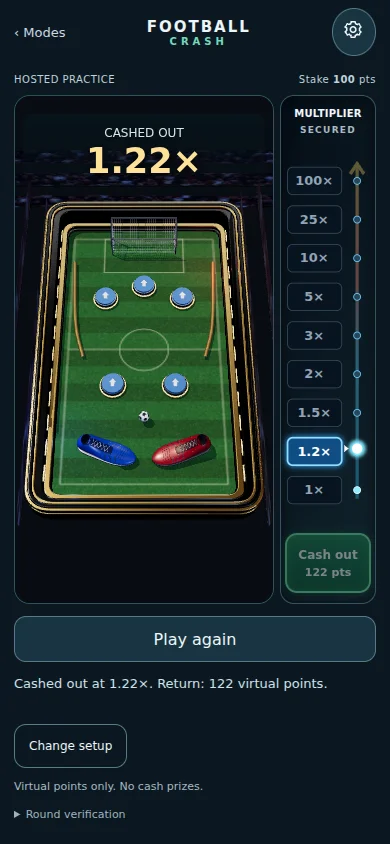
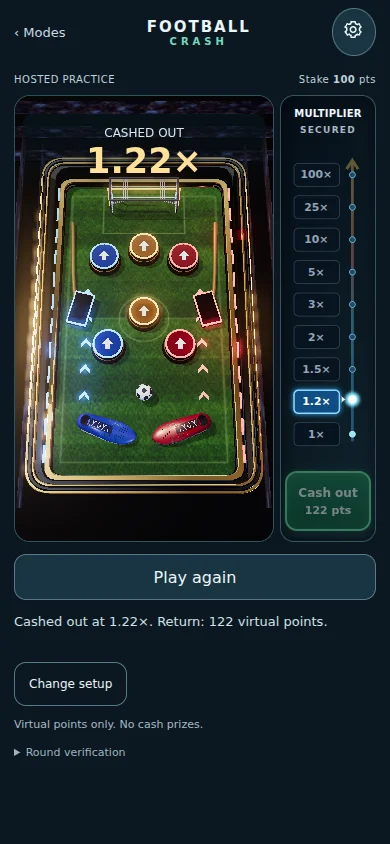
Polish Crash turf, targets, lighting and board framing

diff --git a/src/football-pinball/view/crash-scene.js b/src/football-pinball/view/crash-scene.js
@@ -1,4 +1,8 @@
 import * as THREE from 'three';
+import { EffectComposer } from 'three/addons/postprocessing/EffectComposer.js';
+import { RenderPass } from 'three/addons/postprocessing/RenderPass.js';
+import { UnrealBloomPass } from 'three/addons/postprocessing/UnrealBloomPass.js';
+import { OutputPass } from 'three/addons/postprocessing/OutputPass.js';
 import { GLTFLoader } from 'three/addons/loaders/GLTFLoader.js';
 import { mergeGeometries } from 'three/addons/utils/BufferGeometryUtils.js';
 import { createFootballVisualKit } from './visual-kit.js';
@@ -9,29 +13,36 @@ import { addCrowdTiers } from './stadium-kit.js';
 export async function createCrashView(container) {
   const renderer = new THREE.WebGLRenderer({antialias:true, preserveDrawingBuffer:import.meta.env.DEV});
   renderer.setPixelRatio(Math.min(devicePixelRatio,1.5));
-  renderer.toneMapping=THREE.ACESFilmicToneMapping; renderer.toneMappingExposure=.95;
+  renderer.toneMapping=THREE.ACESFilmicToneMapping; renderer.toneMappingExposure=1.05;
   renderer.shadowMap.enabled=true; renderer.shadowMap.type=THREE.PCFSoftShadowMap;
   container.append(renderer.domElement);
   const scene=new THREE.Scene(); scene.background=new THREE.Color('#080d12');
   const camera=new THREE.PerspectiveCamera(42,1,.1,70);
   const kit=createFootballVisualKit(scene,renderer);
+  const composer=new EffectComposer(renderer);composer.addPass(new RenderPass(scene,camera));
+  const bloom=new UnrealBloomPass(new THREE.Vector2(256,512),.38,.5,1.05);composer.addPass(bloom);composer.addPass(new OutputPass());
   const board=new THREE.Group(); scene.add(board);
   const gold=kit.metal.clone(); gold.color.set('#b99750');gold.roughness=.27;
   addFootballCabinet(board,{metal:gold,black:kit.black});
   const amber=new THREE.MeshStandardMaterial({color:'#ffd471',emissive:'#ff9f28',emissiveIntensity:1.7,roughness:.28});
   const textures=[]; const failures=[]; const rings=[]; let disposed=false,latest={state:'ready',multiplier:1};
   function mesh(geometry,material,x,y,z){const m=new THREE.Mesh(geometry,material);m.position.set(x,y,z);m.castShadow=true;m.receiveShadow=true;board.add(m);return m;}
-  for(const side of [-1,1])for(let n=0;n<12;n++)mesh(new THREE.BoxGeometry(.055,.04,.55),amber,side*3.24,.48,-4.85+n*.88);
+  const blue=amber.clone();blue.color.set('#55bdff');blue.emissive.set('#0088ff');
+  const red=amber.clone();red.color.set('#ff7772');red.emissive.set('#ff1230');
+  for(const side of [-1,1])for(let n=0;n<12;n++)mesh(new THREE.BoxGeometry(.08,.06,.55),side<0?blue:red,side*3.24,.48,-4.85+n*.88);
+  for(const side of [-1,1]){const light=new THREE.PointLight(side<0?'#168fff':'#ff283f',8,7,2);light.position.set(side*2.6,1.3,1);scene.add(light);}
+
   // Deterministic turf texture: the same palette/material language as the PvP kit.
   const canvas=document.createElement('canvas');canvas.width=512;canvas.height=1024;
   const ctx=canvas.getContext('2d');let seed=701;
   const rand=()=>((seed=(Math.imul(seed,1664525)+1013904223)>>>0)/4294967296);
   for(let n=0;n<16;n++){ctx.fillStyle=n%2?'#285b24':'#234c1c';ctx.fillRect(0,n*64,512,64);}
   for(let n=0;n<65000;n++){ctx.fillStyle=rand()>.5?'rgba(162,186,80,.15)':'rgba(0,12,0,.17)';ctx.fillRect(rand()*512,rand()*1024,1,3);}
-  ctx.strokeStyle='rgba(228,238,201,.55)';ctx.lineWidth=2;ctx.strokeRect(24,44,464,936);
+  try{const img=await new Promise((resolve,reject)=>{const i=new Image();i.onload=()=>resolve(i);i.onerror=reject;i.src='/football-pinball/art/turf-detail.webp';});ctx.drawImage(img,0,0,512,1024);for(let n=0;n<16;n++){if(n%2){ctx.fillStyle='rgba(0,24,6,.14)';ctx.fillRect(0,n*64,512,64);}}}catch{failures.push('turf-detail');}
+  ctx.strokeStyle='rgba(228,238,201,.7)';ctx.lineWidth=2;ctx.strokeRect(24,44,464,936);
   ctx.beginPath();ctx.moveTo(24,512);ctx.lineTo(488,512);ctx.ellipse(256,512,75,80,0,0,Math.PI*2);ctx.stroke();ctx.strokeRect(125,44,262,150);
   const turf=new THREE.CanvasTexture(canvas);turf.colorSpace=THREE.SRGBColorSpace;textures.push(turf);
-  mesh(new THREE.PlaneGeometry(6.1,11.05),new THREE.MeshStandardMaterial({map:turf,bumpMap:kit.cloth,bumpScale:.012,roughness:.96}),0,0,0).rotation.x=-Math.PI/2;
+  mesh(new THREE.PlaneGeometry(6.1,11.05),new THREE.MeshStandardMaterial({map:turf,color:'#8ba273',bumpMap:kit.cloth,bumpScale:.012,roughness:.96}),0,0,0).rotation.x=-Math.PI/2;
   try {const crowd=await new THREE.TextureLoader().loadAsync('/football-pinball/art/stadium-crowd.png');crowd.colorSpace=THREE.SRGBColorSpace;textures.push(crowd);addCrowdTiers(scene,crowd,kit.black,{tiers:3,near:6.5});}catch{failures.push('stadium-crowd');}
   function batchStatic(root){
     root.updateMatrixWorld(true);const groups=new Map();
@@ -39,7 +50,7 @@ export async function createCrashView(container) {
     const batched=new THREE.Group();for(const [material,parts] of groups){const geometry=mergeGeometries(parts,false);if(!geometry)throw Error('Asset batching failed');batched.add(new THREE.Mesh(geometry,material));parts.forEach(g=>g.dispose());}root.traverse(o=>o.geometry?.dispose());return batched;
   }
   const loader=new GLTFLoader();const models=new Map();
-  await Promise.all(['boot-reference','football','goal','round-target'].map(async name=>{
+  await Promise.all(['boot-reference','football','goal'].map(async name=>{
     try{const g=await loader.loadAsync(`/models/football/${name}.glb`);const remove=[];g.scene.traverse(o=>{if(o.isLight||o.isCamera)remove.push(o);});remove.forEach(o=>o.removeFromParent());models.set(name,name==='boot-reference'?batchStatic(g.scene):g.scene);}catch{failures.push(name);}
   }));
   function model(name,x,y,z,width,team='blue'){
@@ -50,24 +61,40 @@ export async function createCrashView(container) {
     const holder=new THREE.Group();const scale=width/Math.max(size.x,.001);root.scale.setScalar(scale);root.position.set(-center.x*scale,-bounds.min.y*scale,-center.z*scale);holder.add(root);holder.position.set(x,y,z);board.add(holder);return holder;
   }
   model('goal',0,.02,-4.65,2.65,'red');
-  const positions=[[-1.45,-2.15],[0,-2.7],[1.45,-2.15],[-1.1,1.5],[1.1,1.5]];
+  mesh(new THREE.BoxGeometry(2.7,.045,.055),amber,0,1.15,-4.65);
+  for(const side of [-1,1])mesh(new THREE.BoxGeometry(.055,1.15,.055),amber,side*1.32,.58,-4.65);
+
+  const positions=[[-1.45,-2.25],[0,-2.65],[1.45,-2.25],[-1.25,1.1],[1.25,1.1],[0,-.1]];
   for(const [x,z] of positions){
-    model('round-target',x,.025,z,.85);
-    const ring=mesh(new THREE.TorusGeometry(.44,.035,8,40),amber,x,.1,z);ring.rotation.x=-Math.PI/2;rings.push(ring);
+    const colour=x<0?blue:x>0?red:amber;
+    mesh(new THREE.CylinderGeometry(.55,.61,.22,40),gold,x,.14,z);
+    mesh(new THREE.CylinderGeometry(.48,.52,.2,40),kit.black,x,.34,z);
+    const face=new THREE.MeshPhysicalMaterial({color:x<0?'#073e94':x>0?'#8b101e':'#8a5710',metalness:.55,roughness:.24,clearcoat:1});
+    mesh(new THREE.CylinderGeometry(.45,.45,.08,40),face,x,.48,z);
+    const icon=new THREE.Shape();icon.moveTo(0,-.2);icon.lineTo(.2,.02);icon.lineTo(.08,.02);icon.lineTo(.08,.2);icon.lineTo(-.08,.2);icon.lineTo(-.08,.02);icon.lineTo(-.2,.02);icon.closePath();
+    const symbol=mesh(new THREE.ShapeGeometry(icon),new THREE.MeshBasicMaterial({color:'#ffffff',side:THREE.DoubleSide}),x,.527,z);symbol.rotation.x=Math.PI/2;
+    const ring=mesh(new THREE.TorusGeometry(.49,.04,8,40),colour,x,.5,z);ring.rotation.x=-Math.PI/2;rings.push(ring);
     kit.contact(board,1.1,1.1,x,.012,z);
   }
   for(const side of [-1,1]){
     const curve=new THREE.CatmullRomCurve3([[side*2.7,.15,-3.8],[side*2.5,.15,-.8],[side*2.2,.15,.4]].map(p=>new THREE.Vector3(...p)));
     mesh(new THREE.TubeGeometry(curve,24,.07,8,false),gold,0,0,0);
+    for(let n=0;n<5;n++){
+      const shape=new THREE.Shape();shape.moveTo(-.17,.05);shape.lineTo(0,.26);shape.lineTo(.17,.05);shape.lineTo(.17,-.08);shape.lineTo(0,.1);shape.lineTo(-.17,-.08);shape.closePath();
+      const arrow=mesh(new THREE.ShapeGeometry(shape),side<0?blue:red,side*2.05,.012,2.9-n*.95);arrow.rotation.x=-Math.PI/2;
+    }
+    const wing=mesh(new THREE.BoxGeometry(.7,.2,1.2),kit.black,side*2.25,.24,-.25);wing.rotation.y=side*.25;
+    const rim=mesh(new THREE.BoxGeometry(.74,.035,1.24),side<0?blue:red,side*2.25,.36,-.25);rim.rotation.y=side*.25;
+    const face=mesh(new THREE.BoxGeometry(.62,.035,1.1),kit.black,side*2.25,.385,-.25);face.rotation.y=side*.25;
     const boot=model('boot-reference',side*1.25,.08,4,2.05,side<0?'blue':'red');
     if(boot)boot.rotation.y=side<0?-.3:Math.PI+.3;
   }
-  const ball=model('football',0,.2,2.8,.36)||mesh(new THREE.SphereGeometry(.18,20,16),new THREE.MeshStandardMaterial({color:'white',roughness:.4}),0,.2,2.8);
+  const ball=model('football',0,.2,2.8,.55)||mesh(new THREE.SphereGeometry(.18,20,16),new THREE.MeshStandardMaterial({color:'white',roughness:.4}),0,.2,2.8);
   const corners=[];for(const x of [-3.85,3.85])for(const z of [-6.1,6.1])for(const y of [0,1.1])corners.push(new THREE.Vector3(x,y,z));
   function resize(){
-    if(disposed)return;const w=Math.max(1,container.clientWidth),h=Math.max(1,container.clientHeight);renderer.setSize(w,h,false);camera.aspect=w/h;camera.updateProjectionMatrix();
-    const fits=d=>{camera.position.set(0,d,d*.55);camera.lookAt(0,0,0);camera.updateMatrixWorld();return corners.every(p=>{const q=p.clone().project(camera);return Math.abs(q.x)<.975&&Math.abs(q.y)<.975;});};
-    let lo=5,hi=40;for(let n=0;n<22;n++){const mid=(lo+hi)/2;if(fits(mid))hi=mid;else lo=mid;}fits(hi);renderer.render(scene,camera);
+    if(disposed)return;const w=Math.max(1,container.clientWidth),h=Math.max(1,container.clientHeight);renderer.setSize(w,h,false);composer.setSize(w,h);camera.aspect=w/h;camera.updateProjectionMatrix();
+    const fits=d=>{camera.position.set(0,d,d*.36);camera.lookAt(0,0,0);camera.updateMatrixWorld();return corners.every(p=>{const q=p.clone().project(camera);return Math.abs(q.x)<.975&&Math.abs(q.y)<.975;});};
+    let lo=5,hi=40;for(let n=0;n<22;n++){const mid=(lo+hi)/2;if(fits(mid))hi=mid;else lo=mid;}fits(hi);composer.render();
   }
   const observer=new ResizeObserver(resize);observer.observe(container);resize();
   let motion=0,lastTime=performance.now();
@@ -76,10 +103,10 @@ export async function createCrashView(container) {
     const active=['active','running','rising'].includes(snapshot.state);
     if(active&&!snapshot.paused&&!matchMedia('(prefers-reduced-motion: reduce)').matches){motion+=dt;ball.position.set(Math.sin(motion*2.1)*1.8,.16,Math.cos(motion*1.3)*3.1);ball.rotation.x+=dt*4;ball.rotation.z+=dt*2;}
     amber.emissiveIntensity=snapshot.state==='crashed'?.2:active?1.5+Math.sin(motion*4)*.2:1;
-    renderer.render(scene,camera);
+    composer.render();
   }
-  return {update,setQuality(value){renderer.setPixelRatio(value==='low'?1:Math.min(devicePixelRatio,1.5));renderer.shadowMap.enabled=value!=='low';kit.setReduced(value==='low');resize();},
+  return {update,setQuality(value){renderer.setPixelRatio(value==='low'?1:Math.min(devicePixelRatio,1.5));renderer.shadowMap.enabled=value!=='low';kit.setReduced(value==='low');bloom.enabled=value!=='low';resize();},
     metrics(){return {failedAssets:[...failures],canvas:{width:container.clientWidth,height:container.clientHeight},state:latest.state,cosmetic:true};},
-    dispose(){if(disposed)return;disposed=true;observer.disconnect();const geometry=new Set(),materials=new Set();for(const root of [scene,...models.values()])root.traverse(o=>{if(o.geometry)geometry.add(o.geometry);for(const m of o.material?(Array.isArray(o.material)?o.material:[o.material]):[])materials.add(m);});geometry.forEach(g=>g.dispose());materials.forEach(m=>m.dispose());textures.forEach(t=>t.dispose());kit.dispose();renderer.dispose();renderer.domElement.remove();}
+    dispose(){if(disposed)return;disposed=true;observer.disconnect();const geometry=new Set(),materials=new Set();for(const root of [scene,...models.values()])root.traverse(o=>{if(o.geometry)geometry.add(o.geometry);for(const m of o.material?(Array.isArray(o.material)?o.material:[o.material]):[])materials.add(m);});geometry.forEach(g=>g.dispose());materials.forEach(m=>m.dispose());textures.forEach(t=>t.dispose());kit.dispose();composer.dispose();bloom.dispose();renderer.dispose();renderer.domElement.remove();}
   };
 }

diff --git a/src/football-pinball/ui/crash.css b/src/football-pinball/ui/crash.css
@@ -2,7 +2,7 @@
 .fp-crash [hidden]{display:none!important}.fp-crash button,.fp-crash input,.fp-crash select{font:inherit}.fp-crash button{min-height:46px;border:1px solid #557a87;border-radius:12px;background:#193441;color:#edf6f8;padding:10px 14px;cursor:pointer}.fp-crash button:disabled{opacity:.45;cursor:default}.fp-crash button:focus-visible,.fp-crash a:focus-visible,.fp-crash input:focus-visible,.fp-crash select:focus-visible{outline:3px solid #efd68f;outline-offset:3px}
 #footballApp.fp-crash .fc-header{display:flex;align-items:center;gap:10px;height:64px;justify-content:space-between}#footballApp.fp-crash h1{font-size:15px;letter-spacing:2px;text-align:center}#footballApp.fp-crash h1 span{display:block;font-size:10px;color:#72dbb9;letter-spacing:4px}.fc-header a{color:#bbd0d9;text-decoration:none;font-size:13px}.fp-crash .fc-menu{border-radius:50%;width:44px;min-height:44px;padding:10px}.fc-menu svg{width:22px;height:22px}
 .fc-setup{max-width:480px;margin:20px auto}.fc-kicker{color:#77d6b8;font-size:11px;letter-spacing:2px}.fc-setup h2{font-size:30px;line-height:1.15;margin:10px 0 20px}.fc-setup p{color:#b5c9d2;font-size:14px;line-height:1.55}.fc-preview{position:relative;border:1px solid #345963;background:radial-gradient(ellipse at bottom right,#164138,#0b1e29);border-radius:18px;padding:14px}.fc-preview svg{width:100%;height:130px}.fc-preview strong{position:absolute;left:36px;top:25px;font-size:26px;color:#e9d58f}.fc-setup label{display:grid;gap:8px;font-size:13px;margin-top:22px}.fc-setup input,.fc-setup select{width:100%;min-width:0;min-height:48px;border:1px solid #456878;border-radius:10px;background:#172c38;color:#fff;padding:10px;color-scheme:dark}.fp-crash .fc-small{font-size:11px;line-height:1.45;color:#a6bac4}.fc-setup-actions{display:grid;grid-template-columns:1fr 1.4fr;gap:10px;margin-top:24px}.fc-setup-actions .fp-actions{display:block}.fc-setup-actions button{width:100%;height:100%}.fp-crash #fc-enter,.fp-crash #fc-cashout{background:#d8bd78;color:#0b2028;font-weight:750;border-color:#f2d891}
-.fc-round-header{display:flex;justify-content:space-between;gap:8px;align-items:center;font-size:10px;letter-spacing:.5px;padding:10px 0;color:#bfd3dc}.fc-game{display:grid;grid-template-columns:minmax(0,1fr) 96px;gap:6px;height:clamp(340px,calc((100vw - 130px)*1.65 + 80px),650px);min-height:340px}.fc-game #fc-arena{position:relative;min-width:0;overflow:hidden;border:1px solid #2e5362;border-radius:16px;background:#0b202a}#fc-arena canvas{display:block;width:100%;height:100%}.fc-live{position:absolute;top:18px;left:8px;right:8px;z-index:2;text-align:center;pointer-events:none;text-shadow:0 2px 12px #000;background:linear-gradient(#06151dcc,#06151d00);border-radius:10px;padding:12px 4px}.fc-live>span{display:block;font-size:12px;color:#d3e7e9}.fc-live strong{font-size:clamp(30px,9vw,55px);color:#72edbd;font-variant-numeric:tabular-nums}.fc-live #fc-countdown{font-size:24px;color:#efd68f}.fc-ladder{display:flex;flex-direction:column;justify-content:space-around;border:1px solid #365261;border-radius:14px;background:#102630;padding:8px 4px}.fc-ladder span{font-size:12px;font-weight:700;text-align:center;color:#758f9b;border-radius:8px;padding:10px 0;transition:background 140ms,color 140ms}.fc-ladder .fc-reached{background:#194e43;color:#85f2c9}.fc-round-actions{display:grid;grid-template-columns:1fr;gap:8px;margin-top:12px}.fc-ladder #fc-cashout{display:flex;flex-direction:column;align-items:center;justify-content:center;gap:4px;min-height:60px;padding:10px 3px;width:100%;font-size:12px;flex:none}.fc-ladder #fc-return{font-size:11px;font-variant-numeric:tabular-nums;overflow-wrap:anywhere}.fc-round-actions strong{font-variant-numeric:tabular-nums}.fp-crash #fc-message{font-size:13px;line-height:1.4;min-height:36px;color:#d0e1e8}.fp-crash .fc-text-button{font-size:12px;min-height:44px;background:transparent}.fp-crash dialog{max-width:min(360px,calc(100vw - 32px));border:1px solid #57717c;border-radius:18px;padding:24px;background:#122934;color:#e9f4f6}.fp-crash dialog::backdrop{background:#000a}.fp-crash dialog p{font-size:13px;line-height:1.5}.fp-crash dialog button{width:100%;margin-top:10px}.fp-crash #fc-proof{font-size:11px;overflow-wrap:anywhere;margin-top:12px;line-height:1.5;color:#9db4bf}.fp-crash[data-round-state=crashed] .fc-live strong{color:#ff8f95}.fp-crash[data-round-state=cashed_out] .fc-live strong{color:#ffe099}@media(max-width:359px){.fc-game{grid-template-columns:minmax(0,1fr) 96px}.fc-ladder span{font-size:10px}.fc-round-header{font-size:9px}}@media(prefers-reduced-motion:reduce){.fc-ladder span{transition:none}}
+.fc-round-header{display:flex;justify-content:space-between;gap:8px;align-items:center;font-size:10px;letter-spacing:.5px;padding:10px 0;color:#bfd3dc}.fc-game{display:grid;grid-template-rows:minmax(0,1fr);grid-template-columns:minmax(0,1fr) 96px;gap:6px;height:clamp(340px,calc((100vw - 130px)*1.72),650px);min-height:340px}.fc-game #fc-arena{position:relative;min-width:0;min-height:0;overflow:hidden;border:1px solid #2e5362;border-radius:16px;background:#0b202a}#fc-arena canvas{display:block;width:100%;height:100%}.fc-live{position:absolute;top:18px;left:8px;right:8px;z-index:2;text-align:center;pointer-events:none;text-shadow:0 2px 12px #000;background:linear-gradient(#06151dcc,#06151d00);border-radius:10px;padding:12px 4px}.fc-live>span{display:block;font-size:12px;color:#d3e7e9}.fc-live strong{font-size:clamp(30px,9vw,55px);color:#72edbd;font-variant-numeric:tabular-nums}.fc-live #fc-countdown{font-size:24px;color:#efd68f}.fc-ladder{display:flex;flex-direction:column;justify-content:space-around;border:1px solid #365261;border-radius:14px;background:#102630;padding:8px 4px}.fc-ladder span{font-size:12px;font-weight:700;text-align:center;color:#758f9b;border-radius:8px;padding:10px 0;transition:background 140ms,color 140ms}.fc-ladder .fc-reached{background:#194e43;color:#85f2c9}.fc-round-actions{display:grid;grid-template-columns:1fr;gap:8px;margin-top:12px}.fc-ladder #fc-cashout{display:flex;flex-direction:column;align-items:center;justify-content:center;gap:4px;min-height:60px;padding:10px 3px;width:100%;font-size:12px;flex:none}.fc-ladder #fc-return{font-size:11px;font-variant-numeric:tabular-nums;overflow-wrap:anywhere}.fc-round-actions strong{font-variant-numeric:tabular-nums}.fp-crash #fc-message{font-size:13px;line-height:1.4;min-height:36px;color:#d0e1e8}.fp-crash .fc-text-button{font-size:12px;min-height:44px;background:transparent}.fp-crash dialog{max-width:min(360px,calc(100vw - 32px));border:1px solid #57717c;border-radius:18px;padding:24px;background:#122934;color:#e9f4f6}.fp-crash dialog::backdrop{background:#000a}.fp-crash dialog p{font-size:13px;line-height:1.5}.fp-crash dialog button{width:100%;margin-top:10px}.fp-crash #fc-proof{font-size:11px;overflow-wrap:anywhere;margin-top:12px;line-height:1.5;color:#9db4bf}.fp-crash[data-round-state=crashed] .fc-live strong{color:#ff8f95}.fp-crash[data-round-state=cashed_out] .fc-live strong{color:#ffe099}@media(max-width:359px){.fc-game{grid-template-columns:minmax(0,1fr) 96px}.fc-ladder span{font-size:10px}.fc-round-header{font-size:9px}}@media(prefers-reduced-motion:reduce){.fc-ladder span{transition:none}}
 
 /* Vector multiplier ladder: blue-to-gold rail, live cursor and illuminated tiers. */
 .fp-crash .fc-ladder{background:linear-gradient(110deg,#050e17,#10232c);justify-content:flex-start;padding:10px 4px;gap:8px;box-shadow:inset 0 0 18px #0008}

diff --git a/docs/football-pinball/art/crash-polish.md b/docs/football-pinball/art/crash-polish.md
@@ -1,0 +1,8 @@
+# Crash visual polish
+
+Reuses PvP boot GLBs, cabinet, metal materials and stadium crowd image. Adds raised illuminated targets, colour-coded rails, directional pitch graphics, larger cosmetic football and low-strength WebGL bloom. Rendering only: no target alters multiplier or payout.
+
+Turf texture: public/football-pinball/art/turf-detail.webp, 512 × 512, generated with built-in image generation and compressed for the game.
+Prompt: Flat orthographic seamless football turf albedo texture, finely detailed emerald/olive short grass, subtle horizontal mowing bands, evenly lit; no pitch lines, objects, lettering, shadows or perspective. Pitch lines remain deterministic canvas graphics.
+
+Low quality disables bloom. Real-phone GPU performance still requires physical-device testing.
